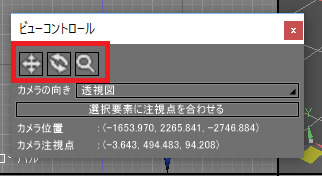
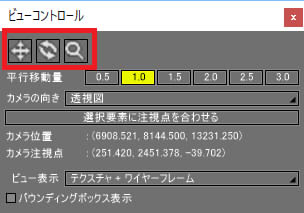
readme更新

diff --git a/README.md b/README.md
@@ -52,6 +52,7 @@ Xcode6.xで、ViewControl/mac/plugins/Template.xcodeprojを読み込みビルド
 「回転」で、カメラの注視点を固定としてカメラを周囲に回転させます。  
 「ズーム」で、カメラの視線はそのままでカメラ位置を注視点から近づけたり遠ざけたりします。  
 
+「平行移動量」の倍率で、「移動」での速度値を指定します (ver.1.1で追加)。  
 「カメラの向き」で、「透視図」「上面」「底面」「正面」「背面」「右面」「左面」を切り替えます。  
 これは、透視図上でカメラの注視点を変えずにカメラ位置を変更するものになります。  
 
@@ -59,6 +60,9 @@ Xcode6.xで、ViewControl/mac/plugins/Template.xcodeprojを読み込みビルド
 形状編集モード時は、選択したポイントや選択されたポリゴンメッシュの頂点/稜線/面の中心が、カメラの注視点となります。  
 
 表示されている「カメラ位置」「カメラ注視点」の座標は、ワールド座標での位置となります。  
+
+「ビュー表示」で、透視図でのシェーディングモードを変更します(ver.1.1で追加)。  
+「バウンディングボックス表示」で、透視図でのバウンディングボックス表示をOn/offします(ver.1.1で追加)。  
 
 ## 制限事項
 
@@ -69,6 +73,12 @@ Xcode6.xで、ViewControl/mac/plugins/Template.xcodeprojを読み込みビルド
 * カメラが平行投影の場合は、移動と回転の動きが速すぎる問題。
 
 ## 更新履歴
+
+[2017/11/22]  ver.1.1.0.0  
+* 「平行移動量」の倍率指定により、移動時の速度調整ができるようにした
+* 「ビュー表示」で、透視図のシェーディング表示を切り替えることができるようにした
+* 「バウンディングボックス表示」で、透視図のバウンディングボックス表示をOn/Offできるようにした
+* Mac版で、Shade3D ver.17で移動がぎこちない問題を改善
 
 [2017/06/25]  ver.1.0.0.0  
 * 初回版
